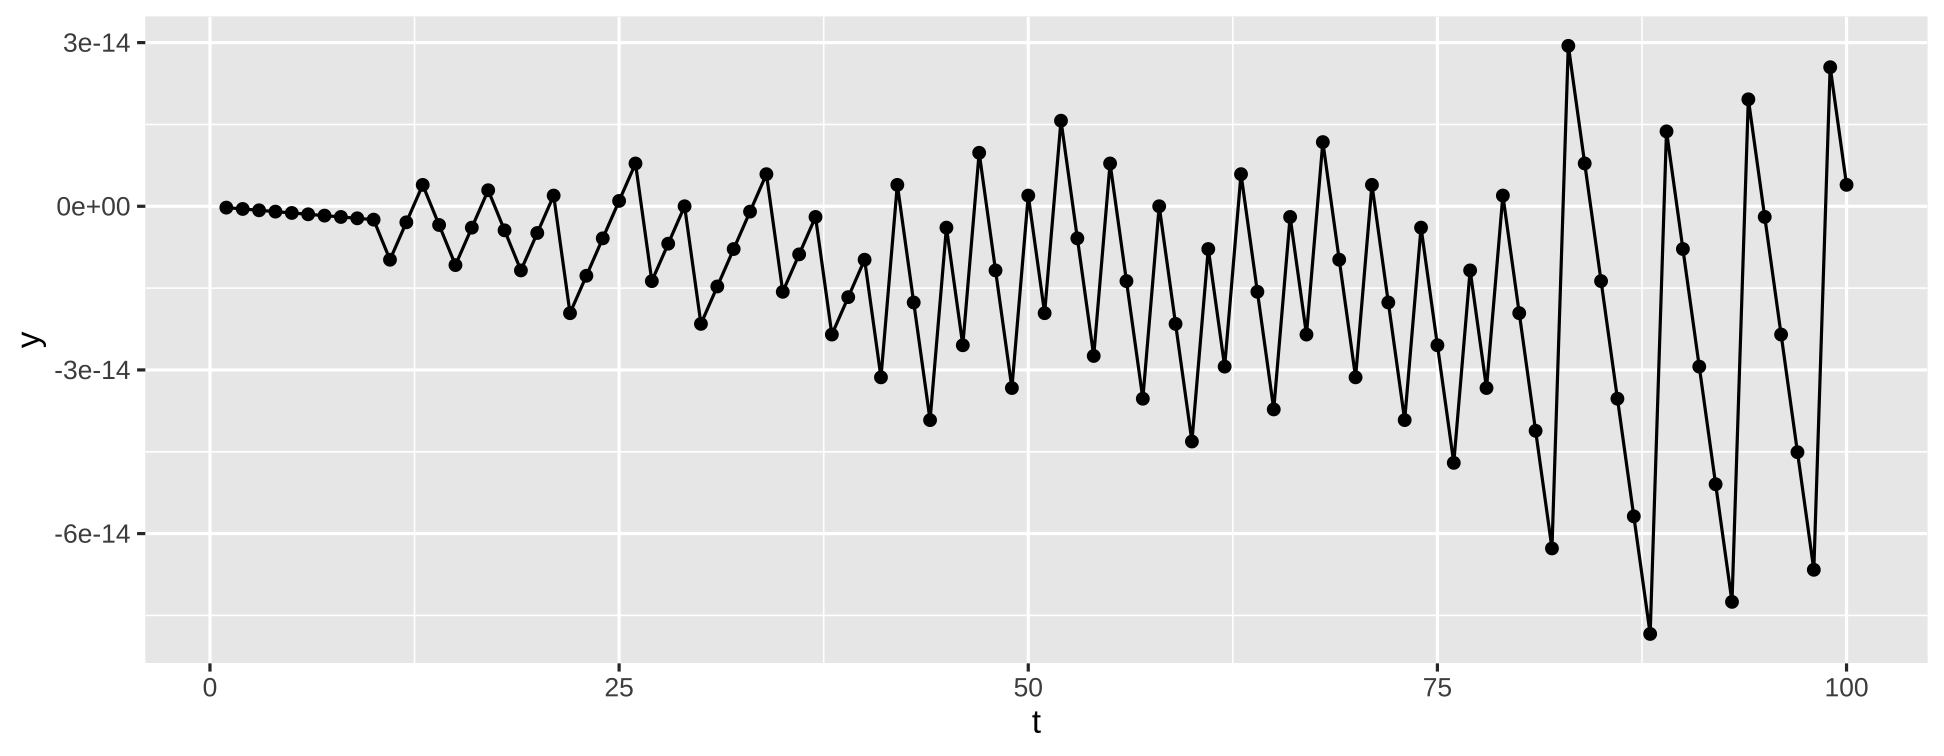
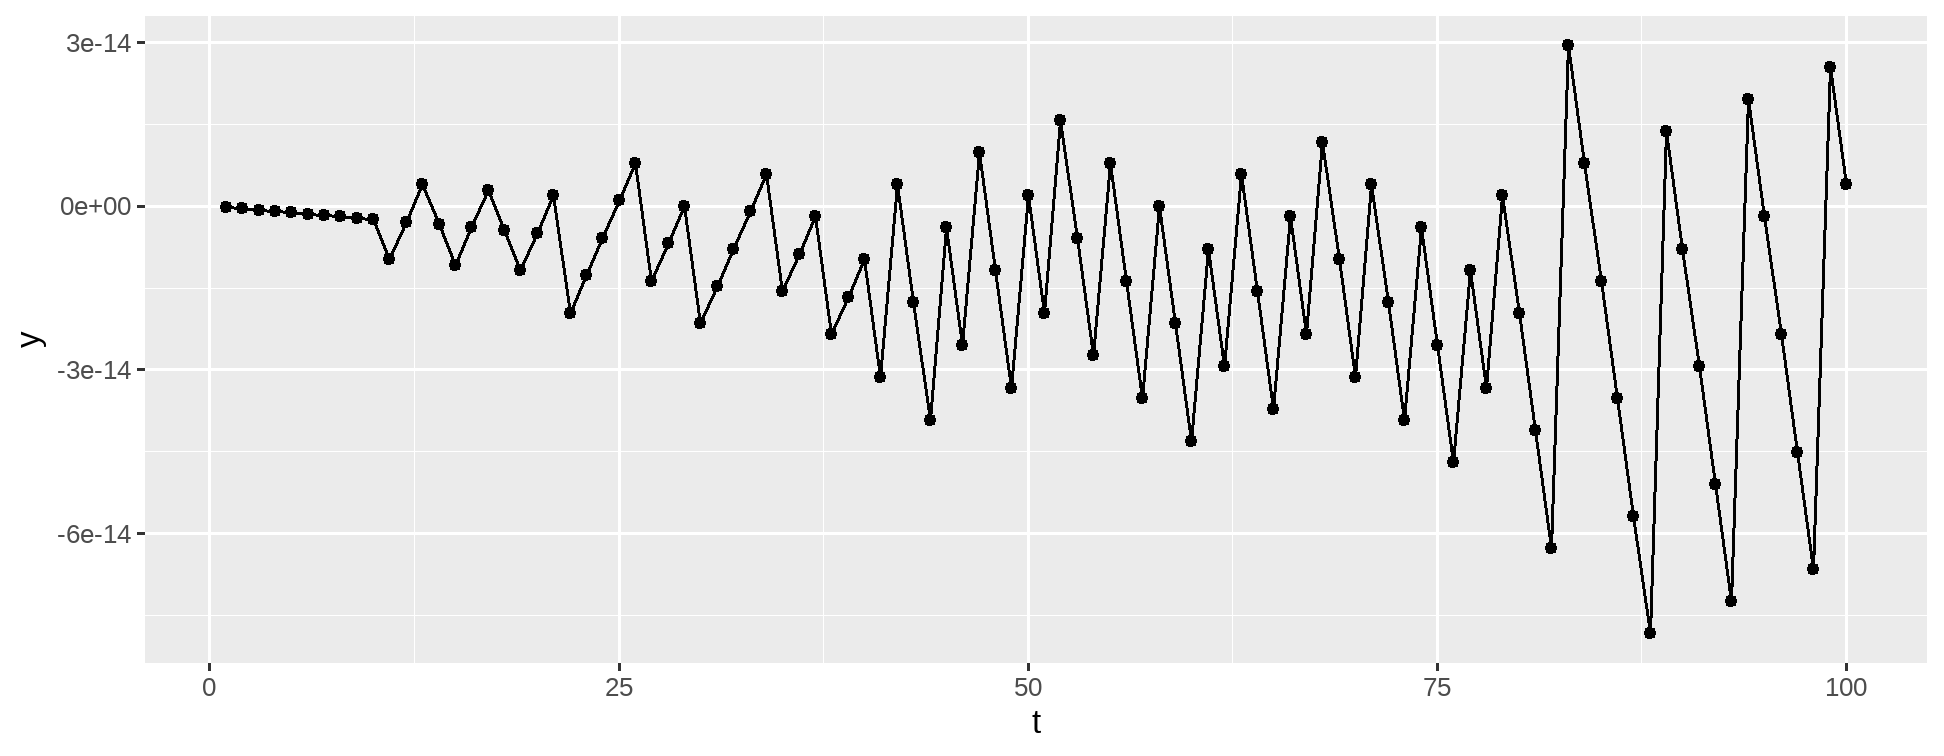
updated

diff --git a/index.html b/index.html
@@ -123,7 +123,9 @@ The meaning of “stochastic” is random.
 
 ## Random experiment
 
-A **random experiment** is a physical situation whose outcome cannot be predicted with certainty until it is observed. A random experiment can be repeated as many times as we want under the same conditions (leading to different outcomes). Each one of them a trial. Thus, a trial is a particular performance of a random experiment.
+- A **random experiment** is a physical situation whose outcome cannot be predicted with certainty until it is observed. 
+
+- A random experiment can be repeated as many times as we want under the same conditions (leading to different outcomes). Each one of them a trial. Thus, a trial is a particular performance of a random experiment.
 
 ---
 
@@ -454,22 +456,22 @@ Classify the following stochastic process based on the state space and parameter
 `\(X \sim Normal(4, 4)\)`
 
 
-```r
+``` r
 rnorm(5, 4, 2)
 ```
 
 ```
-[1] 0.8246619 3.9324475 5.0754297 7.3034650 4.6447904
+[1] 5.686360 3.938677 4.747118 2.129554 2.679690
 ```
 
 
 
-```r
+``` r
 rnorm(5, 4, 2)
 ```
 
 ```
-[1] 6.1271962 2.1279951 1.6893880 0.5300615 3.0841193
+[1] 0.4589393 5.0853982 2.7225298 5.2432529 6.0430015
 ```
 
 
@@ -486,7 +488,7 @@ Let's look at the differences
 ## Stochastic process or not?
 
 
-```r
+``` r
 t &lt;- 1:100
 y &lt;- sin(2*pi*t)
 df &lt;- data.frame(y=y, t=t)
@@ -495,106 +497,106 @@ df
 
 ```
 ##                 y   t
-## 1   -2.449294e-16   1
-## 2   -4.898587e-16   2
-## 3   -7.347881e-16   3
-## 4   -9.797174e-16   4
-## 5   -1.224647e-15   5
-## 6   -1.469576e-15   6
-## 7   -1.714506e-15   7
-## 8   -1.959435e-15   8
-## 9   -2.204364e-15   9
-## 10  -2.449294e-15  10
-## 11  -9.799650e-15  11
-## 12  -2.939152e-15  12
-## 13   3.921346e-15  13
-## 14  -3.429011e-15  14
-## 15  -1.077937e-14  15
-## 16  -3.918870e-15  16
-## 17   2.941628e-15  17
-## 18  -4.408728e-15  18
-## 19  -1.175909e-14  19
-## 20  -4.898587e-15  20
-## 21   1.961911e-15  21
-## 22  -1.959930e-14  22
-## 23  -1.273880e-14  23
-## 24  -5.878305e-15  24
-## 25   9.821934e-16  25
-## 26   7.842691e-15  26
-## 27  -1.371852e-14  27
-## 28  -6.858022e-15  28
-## 29   2.475923e-18  29
-## 30  -2.155874e-14  30
-## 31  -1.469824e-14  31
-## 32  -7.837740e-15  32
-## 33  -9.772415e-16  33
-## 34   5.883256e-15  34
-## 35  -1.567795e-14  35
-## 36  -8.817457e-15  36
-## 37  -1.956959e-15  37
-## 38  -2.351817e-14  38
-## 39  -1.665767e-14  39
-## 40  -9.797174e-15  40
-## 41  -3.135839e-14  41
-## 42   3.923822e-15  42
-## 43  -1.763739e-14  43
-## 44  -3.919860e-14  44
-## 45  -3.916394e-15  45
-## 46  -2.547761e-14  46
-## 47   9.804602e-15  47
-## 48  -1.175661e-14  48
-## 49  -3.331782e-14  49
-## 50   1.964387e-15  50
-## 51  -1.959682e-14  51
-## 52   1.568538e-14  52
-## 53  -5.875829e-15  53
-## 54  -2.743704e-14  54
-## 55   7.845167e-15  55
-## 56  -1.371604e-14  56
-## 57  -3.527726e-14  57
-## 58   4.951845e-18  58
-## 59  -2.155626e-14  59
-## 60  -4.311747e-14  60
-## 61  -7.835264e-15  61
-## 62  -2.939648e-14  62
-## 63   5.885732e-15  63
-## 64  -1.567548e-14  64
-## 65  -3.723669e-14  65
-## 66  -1.954483e-15  66
-## 67  -2.351569e-14  67
-## 68   1.176651e-14  68
-## 69  -9.794698e-15  69
-## 70  -3.135591e-14  70
-## 71   3.926298e-15  71
-## 72  -1.763491e-14  72
-## 73  -3.919613e-14  73
-## 74  -3.913918e-15  74
-## 75  -2.547513e-14  75
-## 76  -4.703634e-14  76
-## 77  -1.175413e-14  77
-## 78  -3.331534e-14  78
-## 79   1.966863e-15  79
-## 80  -1.959435e-14  80
-## 81  -4.115556e-14  81
-## 82  -6.271677e-14  82
-## 83   2.940885e-14  83
-## 84   7.847643e-15  84
-## 85  -1.371357e-14  85
-## 86  -3.527478e-14  86
-## 87  -5.683599e-14  87
-## 88  -7.839720e-14  88
-## 89   1.372842e-14  89
-## 90  -7.832788e-15  90
-## 91  -2.939400e-14  91
-## 92  -5.095521e-14  92
-## 93  -7.251642e-14  93
-## 94   1.960920e-14  94
-## 95  -1.952007e-15  95
-## 96  -2.351322e-14  96
-## 97  -4.507443e-14  97
-## 98  -6.663564e-14  98
-## 99   2.548998e-14  99
-## 100  3.928773e-15 100
+## 1   -2.449213e-16   1
+## 2   -4.898425e-16   2
+## 3   -7.347638e-16   3
+## 4   -9.796851e-16   4
+## 5   -1.224606e-15   5
+## 6   -1.469528e-15   6
+## 7   -1.714449e-15   7
+## 8   -1.959370e-15   8
+## 9   -2.204291e-15   9
+## 10  -2.449213e-15  10
+## 11  -9.799561e-15  11
+## 12  -2.939055e-15  12
+## 13   3.921451e-15  13
+## 14  -3.428898e-15  14
+## 15  -1.077925e-14  15
+## 16  -3.918740e-15  16
+## 17   2.941766e-15  17
+## 18  -4.408583e-15  18
+## 19  -1.175893e-14  19
+## 20  -4.898425e-15  20
+## 21   1.962081e-15  21
+## 22  -1.959912e-14  22
+## 23  -1.273862e-14  23
+## 24  -5.878110e-15  24
+## 25   9.823956e-16  25
+## 26   7.842902e-15  26
+## 27  -1.371830e-14  27
+## 28  -6.857796e-15  28
+## 29   2.710505e-18  29
+## 30  -2.155849e-14  30
+## 31  -1.469799e-14  31
+## 32  -7.837481e-15  32
+## 33  -9.769746e-16  33
+## 34   5.883532e-15  34
+## 35  -1.567767e-14  35
+## 36  -8.817166e-15  36
+## 37  -1.956660e-15  37
+## 38  -2.351786e-14  38
+## 39  -1.665736e-14  39
+## 40  -9.796851e-15  40
+## 41  -3.135805e-14  41
+## 42   3.924161e-15  42
+## 43  -1.763704e-14  43
+## 44  -3.919825e-14  44
+## 45  -3.916030e-15  45
+## 46  -2.547723e-14  46
+## 47   9.804982e-15  47
+## 48  -1.175622e-14  48
+## 49  -3.331742e-14  49
+## 50   1.964791e-15  50
+## 51  -1.959641e-14  51
+## 52   1.568580e-14  52
+## 53  -5.875400e-15  53
+## 54  -2.743660e-14  54
+## 55   7.845612e-15  55
+## 56  -1.371559e-14  56
+## 57  -3.527679e-14  57
+## 58   5.421011e-18  58
+## 59  -2.155578e-14  59
+## 60  -4.311699e-14  60
+## 61  -7.834770e-15  61
+## 62  -2.939597e-14  62
+## 63   5.886242e-15  63
+## 64  -1.567496e-14  64
+## 65  -3.723616e-14  65
+## 66  -1.953949e-15  66
+## 67  -2.351515e-14  67
+## 68   1.176706e-14  68
+## 69  -9.794140e-15  69
+## 70  -3.135534e-14  70
+## 71   3.926872e-15  71
+## 72  -1.763433e-14  72
+## 73  -3.919553e-14  73
+## 74  -3.913319e-15  74
+## 75  -2.547452e-14  75
+## 76  -4.703573e-14  76
+## 77  -1.175351e-14  77
+## 78  -3.331471e-14  78
+## 79   1.967502e-15  79
+## 80  -1.959370e-14  80
+## 81  -4.115491e-14  81
+## 82  -6.271611e-14  82
+## 83   2.940953e-14  83
+## 84   7.848323e-15  84
+## 85  -1.371288e-14  85
+## 86  -3.527408e-14  86
+## 87  -5.683529e-14  87
+## 88  -7.839649e-14  88
+## 89   1.372914e-14  89
+## 90  -7.832060e-15  90
+## 91  -2.939326e-14  91
+## 92  -5.095447e-14  92
+## 93  -7.251567e-14  93
+## 94   1.960996e-14  94
+## 95  -1.951239e-15  95
+## 96  -2.351244e-14  96
+## 97  -4.507365e-14  97
+## 98  -6.663485e-14  98
+## 99   2.549079e-14  99
+## 100  3.929582e-15 100
 ```
 
 ---
@@ -602,7 +604,7 @@ df
 ##  Stochastic process or not?
 
 
-```r
+``` r
 library(ggplot2)
 ggplot(data=df, aes(x=t, y=y)) + 
   geom_point() + 
@@ -615,7 +617,7 @@ ggplot(data=df, aes(x=t, y=y)) +
 ##  Stochastic process or not?
 
 
-```r
+``` r
 library(denguedatahub)
 data(srilanka_weekly_data)
 srilanka_weekly_data |&gt; 
